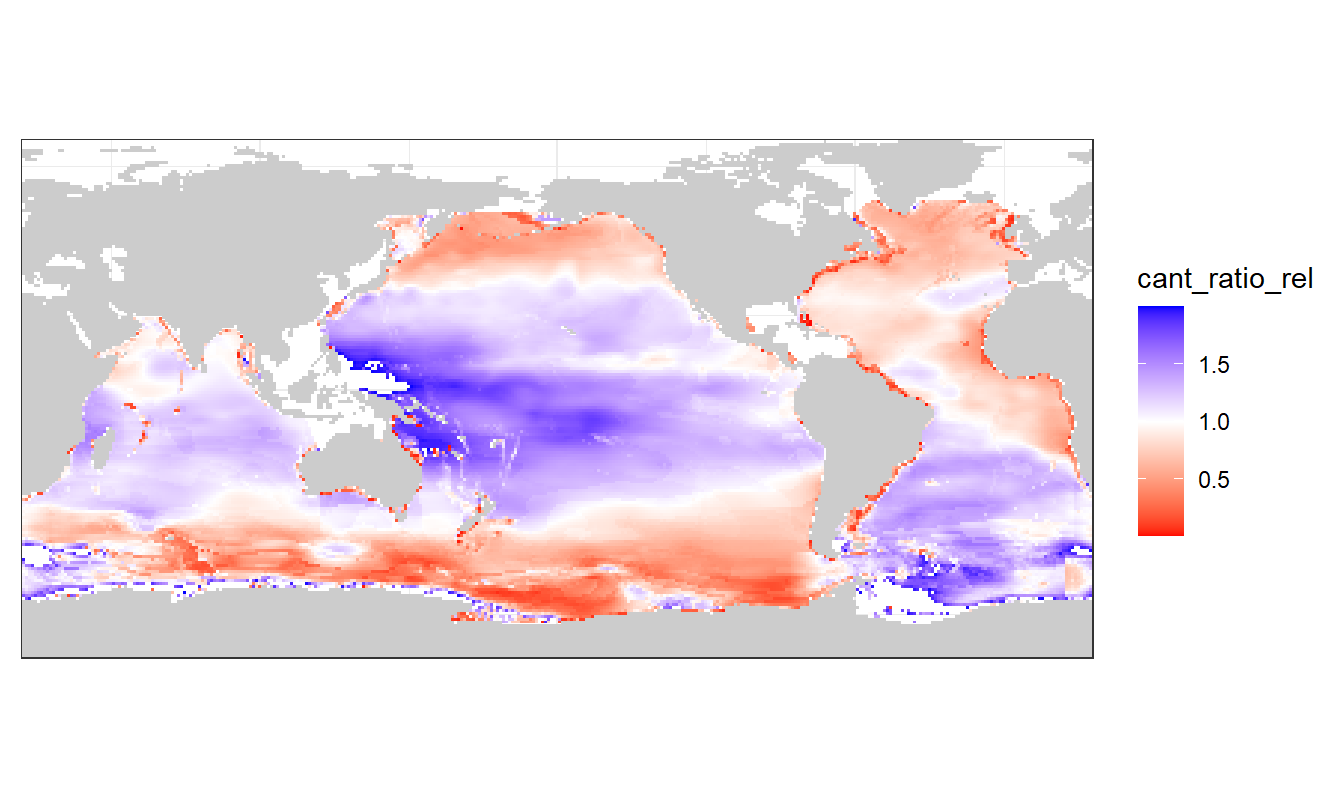
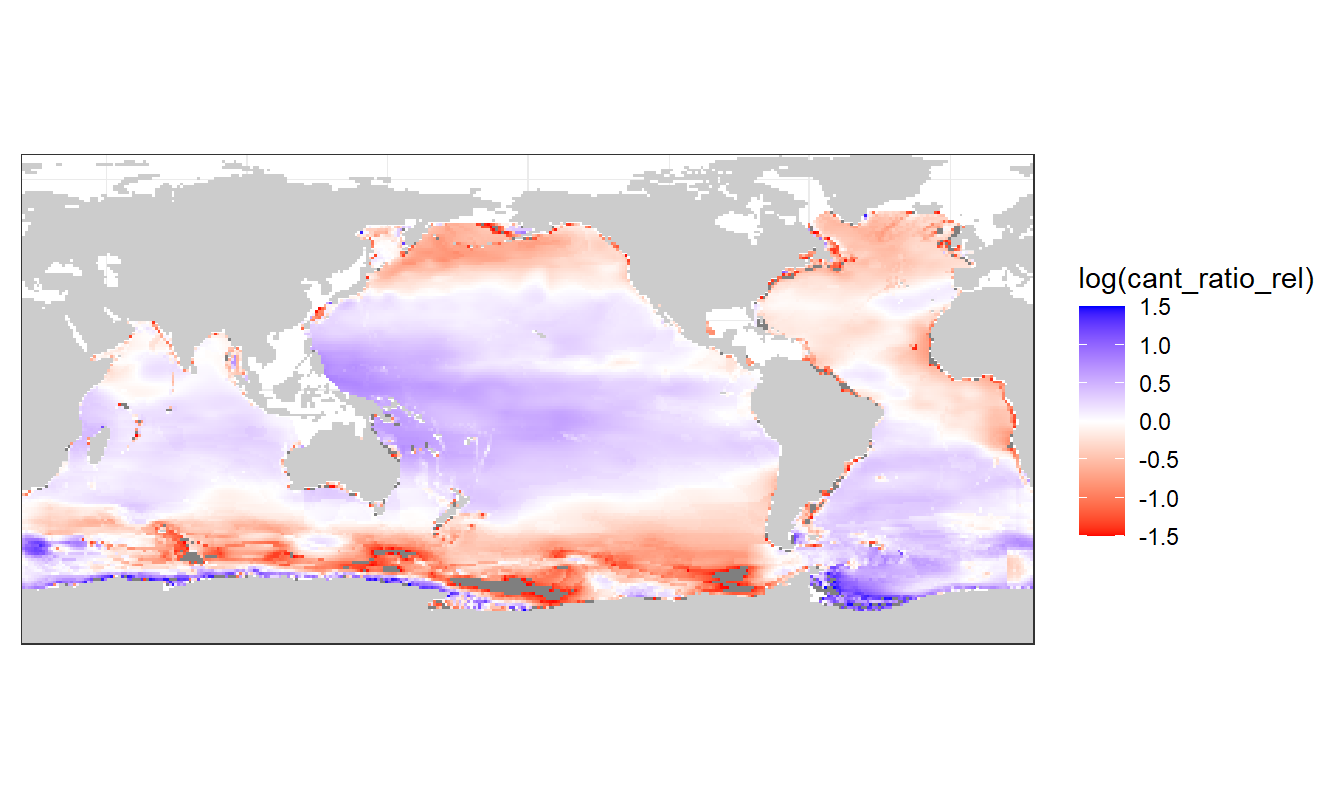
Build site.

Changed region(s): [[0.0, 0.1551, 1.0, 0.8375]]

diff --git a/docs/analysis.html b/docs/analysis.html
@@ -573,16 +573,16 @@ This reproducible <a href="http://rmarkdown.rstudio.com">R Markdown</a> analysis
 <div class="panel panel-default">
 <div class="panel-heading">
 <p class="panel-title">
-<a data-toggle="collapse" data-parent="#workflowr-checks" href="#strongRepositoryversionstrongahrefhttpsgithubcomjensdanielmuellerCanteMLRtree333ea4b1747645952a82999f8598f2ccca0653cftargetblank333ea4ba"> <span class="glyphicon glyphicon-ok text-success" aria-hidden="true"></span> <strong>Repository version:</strong> <a href="https://github.com/jens-daniel-mueller/Cant_eMLR/tree/333ea4b1747645952a82999f8598f2ccca0653cf" target="_blank">333ea4b</a> </a>
+<a data-toggle="collapse" data-parent="#workflowr-checks" href="#strongRepositoryversionstrongahrefhttpsgithubcomjensdanielmuellerCanteMLRtreecdacd41977358f8aa742f26197ed171af1bf93batargetblankcdacd41a"> <span class="glyphicon glyphicon-ok text-success" aria-hidden="true"></span> <strong>Repository version:</strong> <a href="https://github.com/jens-daniel-mueller/Cant_eMLR/tree/cdacd41977358f8aa742f26197ed171af1bf93ba" target="_blank">cdacd41</a> </a>
 </p>
 </div>
[2 lines of base64/hex data omitted]
 <div class="panel-body">
 <p>
 Great! You are using Git for version control. Tracking code development and connecting the code version to the results is critical for reproducibility.
 </p>
 <p>
-The results in this page were generated with repository version <a href="https://github.com/jens-daniel-mueller/Cant_eMLR/tree/333ea4b1747645952a82999f8598f2ccca0653cf" target="_blank">333ea4b</a>. See the <em>Past versions</em> tab to see a history of the changes made to the R Markdown and HTML files.
+The results in this page were generated with repository version <a href="https://github.com/jens-daniel-mueller/Cant_eMLR/tree/cdacd41977358f8aa742f26197ed171af1bf93ba" target="_blank">cdacd41</a>. See the <em>Past versions</em> tab to see a history of the changes made to the R Markdown and HTML files.
 </p>
 <p>
 Note that you need to be careful to ensure that all relevant files for the analysis have been committed to Git prior to generating the results (you can use <code>wflow_publish</code> or <code>wflow_git_commit</code>). workflowr only checks the R Markdown file, but you know if there are other scripts or data files that it depends on. Below is the status of the Git repository when the results were generated:
@@ -603,9 +603,6 @@ Ignored files:
     Ignored:    data/parameters/
     Ignored:    dump/
     Ignored:    figure/
-
-Unstaged changes:
-    Modified:   analysis/_site.yml
 
 </code></pre>
 <p>
@@ -644,6 +641,40 @@ Message
 </tr>
 </thead>
 <tbody>
+<tr>
+<td>
+Rmd
+</td>
+<td>
+<a href="https://github.com/jens-daniel-mueller/Cant_eMLR/blob/cdacd41977358f8aa742f26197ed171af1bf93ba/analysis/analysis.Rmd" target="_blank">cdacd41</a>
+</td>
+<td>
+jens-daniel-mueller
+</td>
+<td>
+2020-08-13
+</td>
+<td>
+log scale
+</td>
+</tr>
+<tr>
+<td>
+html
+</td>
+<td>
+<a href="https://rawcdn.githack.com/jens-daniel-mueller/Cant_eMLR/a3b6b6823d25b249d17ce4599d172c01bed9fe19/docs/analysis.html" target="_blank">a3b6b68</a>
+</td>
+<td>
+jens-daniel-mueller
+</td>
+<td>
+2020-08-13
+</td>
+<td>
+Build site.
+</td>
+</tr>
 <tr>
 <td>
 html
@@ -835,17 +866,18 @@ Cant_inv_wide &lt;- Cant_inv_wide %&gt;%
 
 
 Cant_inv_wide %&gt;%
-  filter(cant_ratio_rel &lt; 2) %&gt;% 
+  #filter(cant_ratio_rel &lt; 2) %&gt;% 
   ggplot() +
   geom_raster(data = landmask %&gt;% filter(region == &quot;land&quot;),
               aes(lon, lat),
               fill = &quot;grey80&quot;) +
-  geom_raster(aes(lon, lat, fill = cant_ratio_rel)) +
+  geom_raster(aes(lon, lat, fill = log(cant_ratio_rel))) +
   coord_quickmap(expand = 0) +
   scale_fill_gradient2(  low = &quot;red&quot;,
   mid = &quot;white&quot;,
   high = &quot;blue&quot;,
-  midpoint = 1) +
+  midpoint = 0,
+  limits = c(-1.5,1.5)) +
   theme(
     axis.title = element_blank(),
     axis.text = element_blank(),
